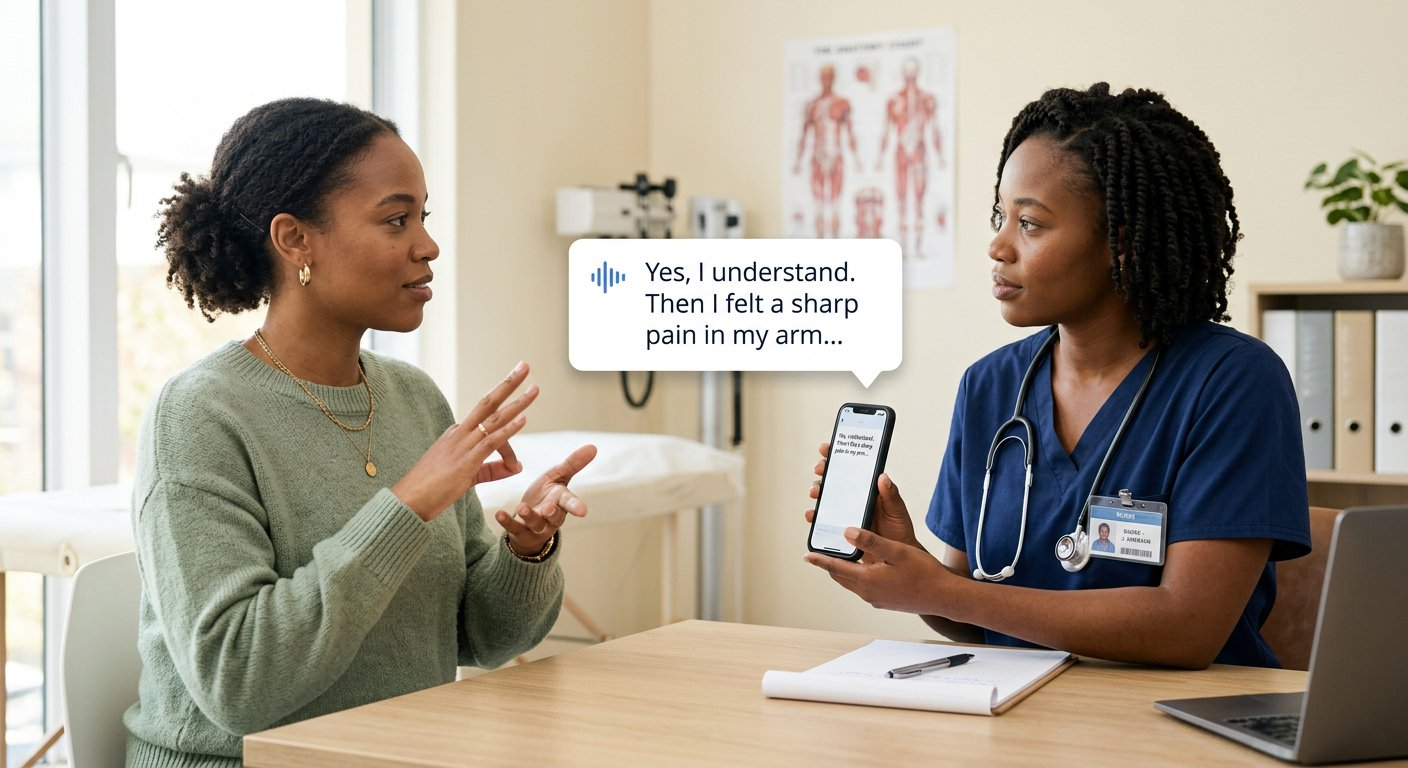
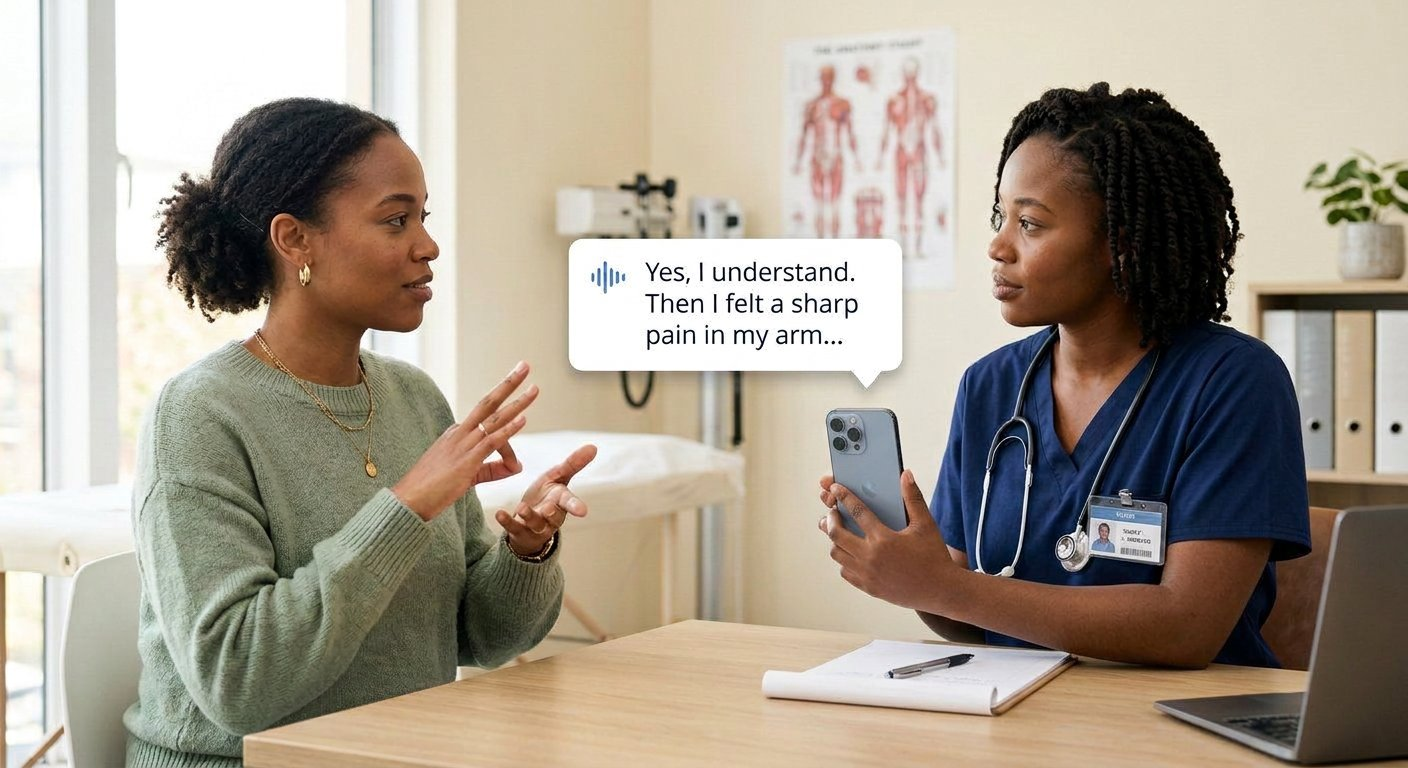
Fix word-spacing in reveal animation; correct feature imagery
The text splitter put the separating space inside a clipped inline-block
span, collapsing every sentence into one word. Spaces now sit between
the spans and inline markup (the accent colour) survives the split.

Images: hero phone now records the patient, sign-to-speech card shows
the back of the phone, team card shows a live signing call.

Changed region(s): [[0.5625, 0.5, 0.8125, 0.8125], [0.4062, 0.3438, 0.4375, 0.375], [0.125, 0.375, 0.1562, 0.4062]]

diff --git a/landing/index.html b/landing/index.html
@@ -448,20 +448,43 @@ body {
   }
   requestAnimationFrame(raf);
 
-  function splitTextToWords(element) {
-    const text = element.innerText;
-    const words = text.split(' ');
-    element.innerHTML = '';
-    words.forEach(word => {
-      const wordWrap = document.createElement('span');
-      wordWrap.classList.add('word-wrap');
-      wordWrap.innerHTML = `<span class="word-inner">${word} </span>`;
-      element.appendChild(wordWrap);
+  // Splits text into word spans for the reveal animation.
+  //
+  // Two things this must get right:
+  //  1. The space BETWEEN words has to live outside the .word-inner span.
+  //     .word-wrap is inline-block with overflow:hidden, so a trailing space
+  //     inside it collapses and every word runs together.
+  //  2. Inline markup (e.g. the coloured <span> in the heading) has to survive,
+  //     otherwise the accent colour is lost when innerHTML is reset.
+  function splitIntoWords(node, target) {
+    Array.from(node.childNodes).forEach((child) => {
+      if (child.nodeType === Node.TEXT_NODE) {
+        child.textContent.split(/(\s+)/).forEach((chunk) => {
+          if (!chunk) return;
+          if (/^\s+$/.test(chunk)) {
+            target.appendChild(document.createTextNode(' '));
+            return;
+          }
+          const wrap = document.createElement('span');
+          wrap.className = 'word-wrap';
+          const inner = document.createElement('span');
+          inner.className = 'word-inner';
+          inner.textContent = chunk;
+          wrap.appendChild(inner);
+          target.appendChild(wrap);
+        });
+      } else if (child.nodeType === Node.ELEMENT_NODE) {
+        const clone = child.cloneNode(false); // keep classes/styles
+        target.appendChild(clone);
+        splitIntoWords(child, clone);
+      }
     });
   }
 
-  document.querySelectorAll('.split-animate').forEach(el => {
-    splitTextToWords(el);
+  document.querySelectorAll('.split-animate').forEach((el) => {
+    const original = el.cloneNode(true);
+    el.innerHTML = '';
+    splitIntoWords(original, el);
   });
 
   const loadTl = gsap.timeline({
